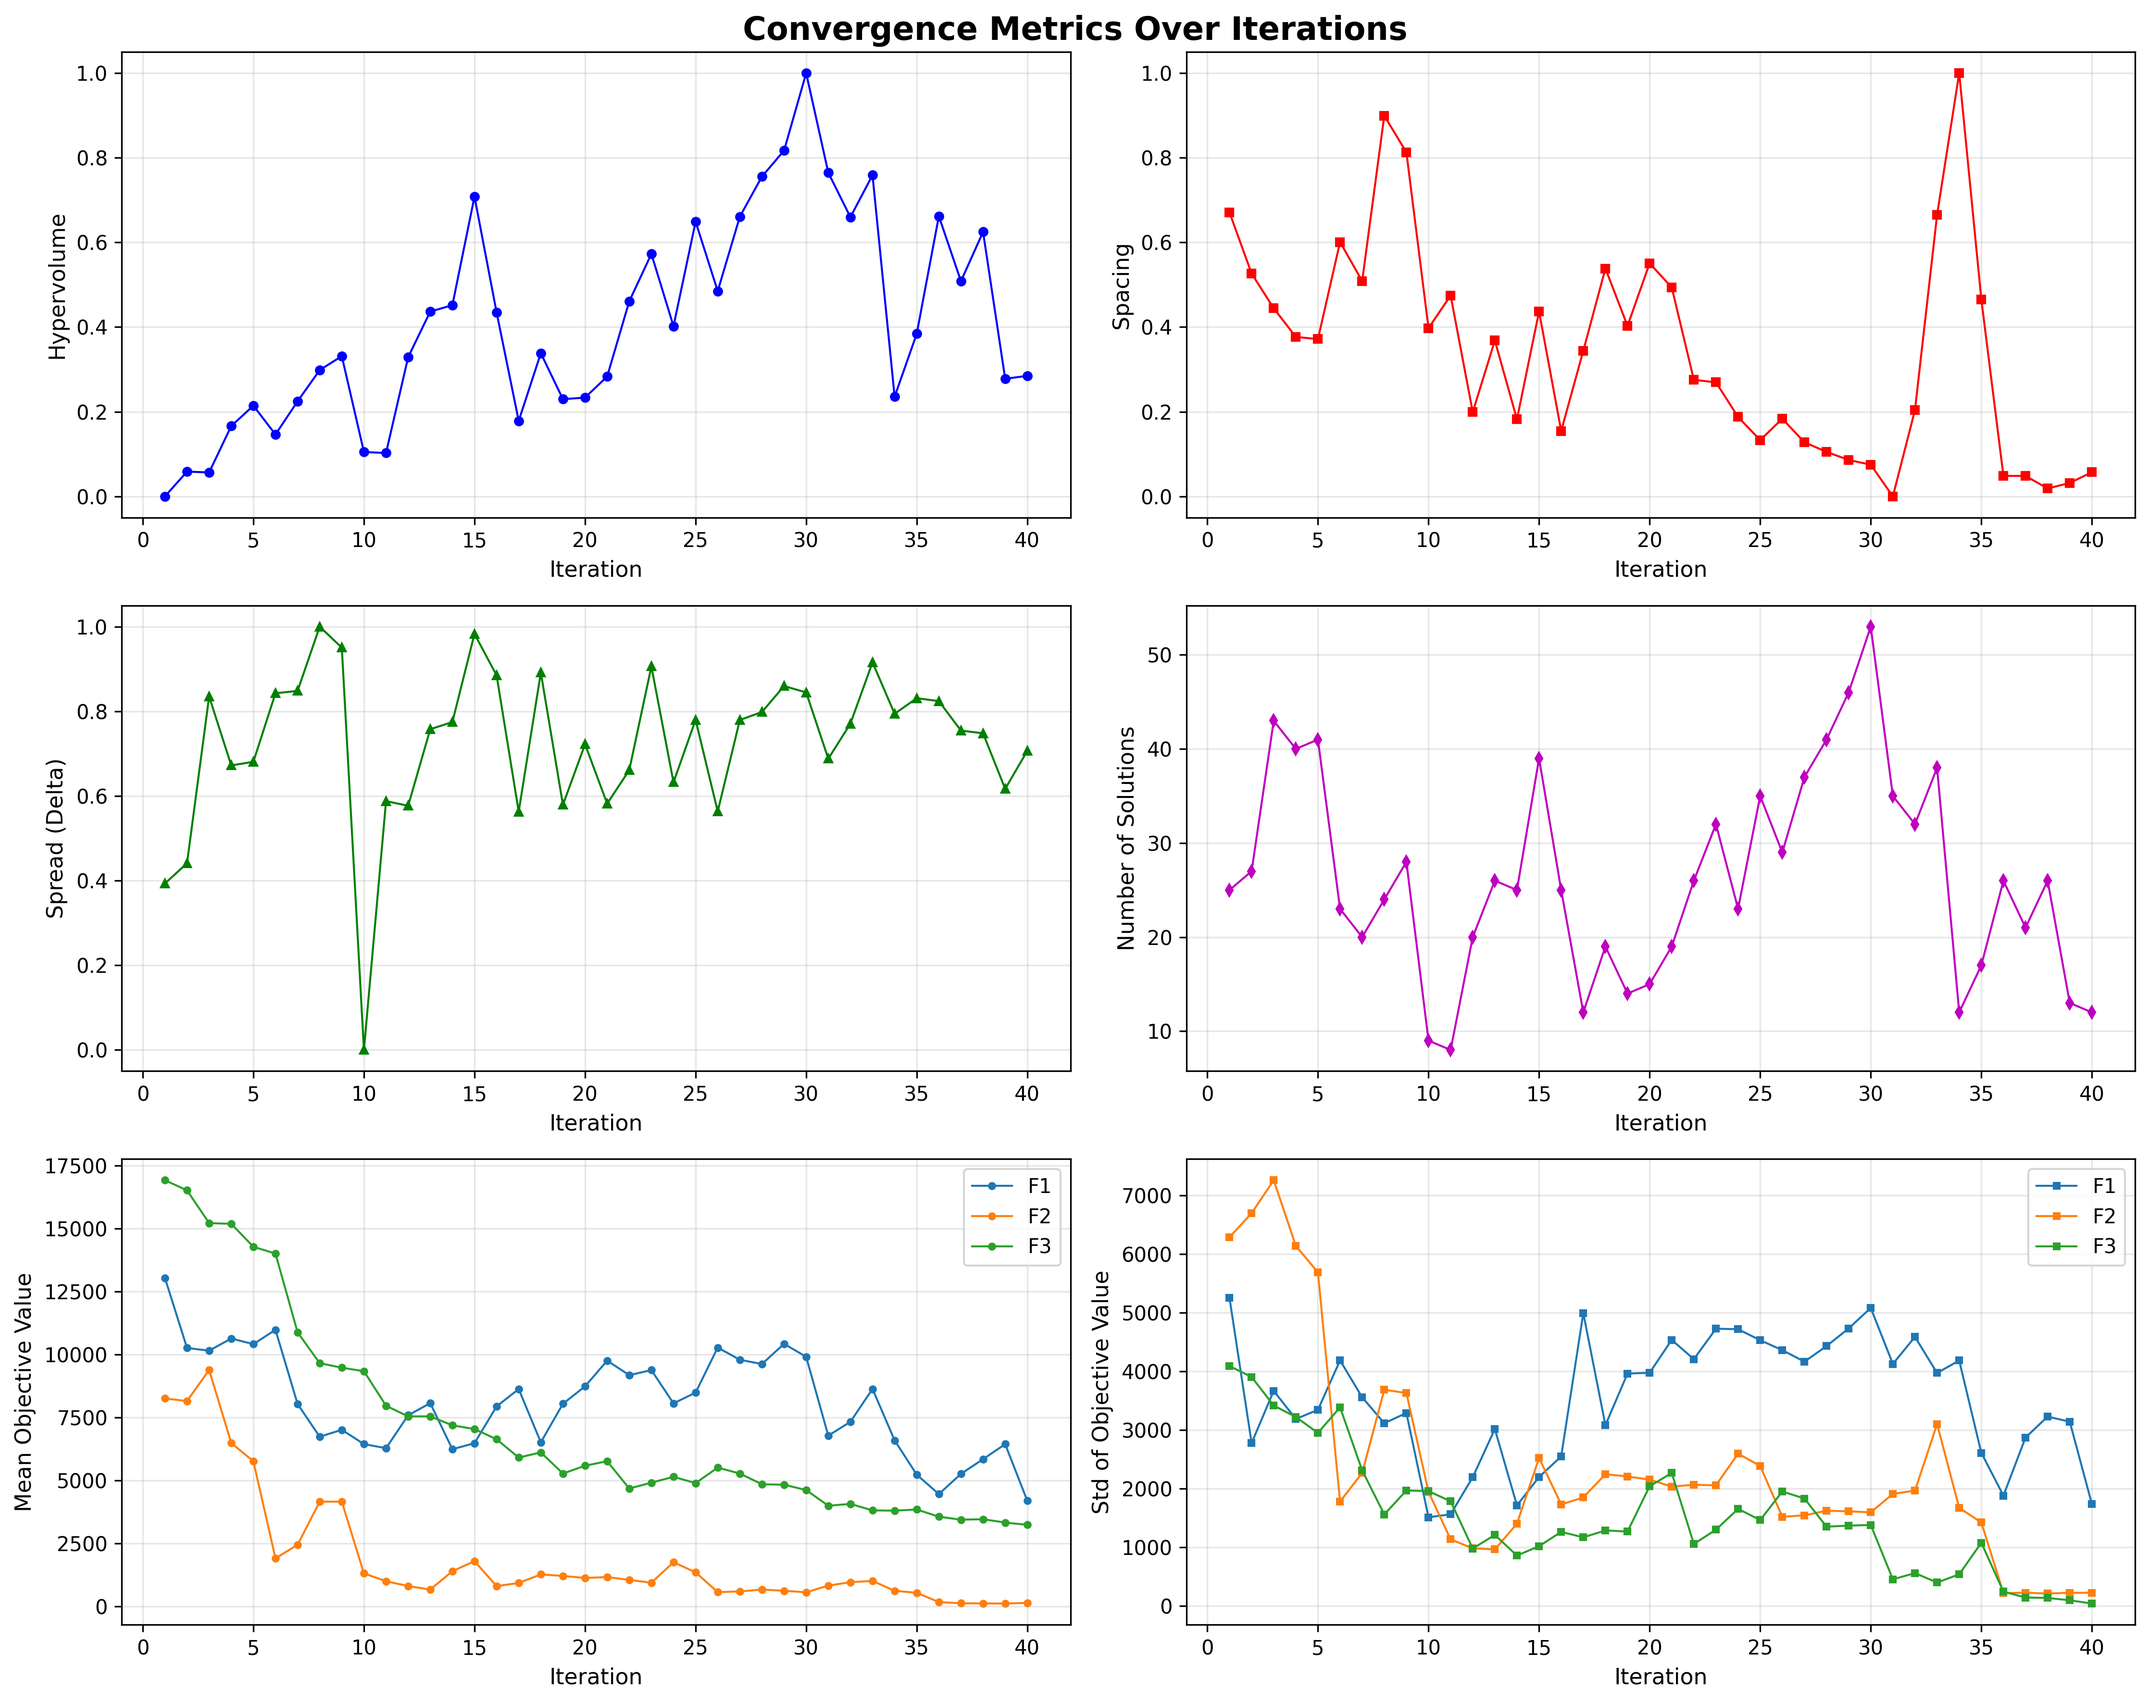
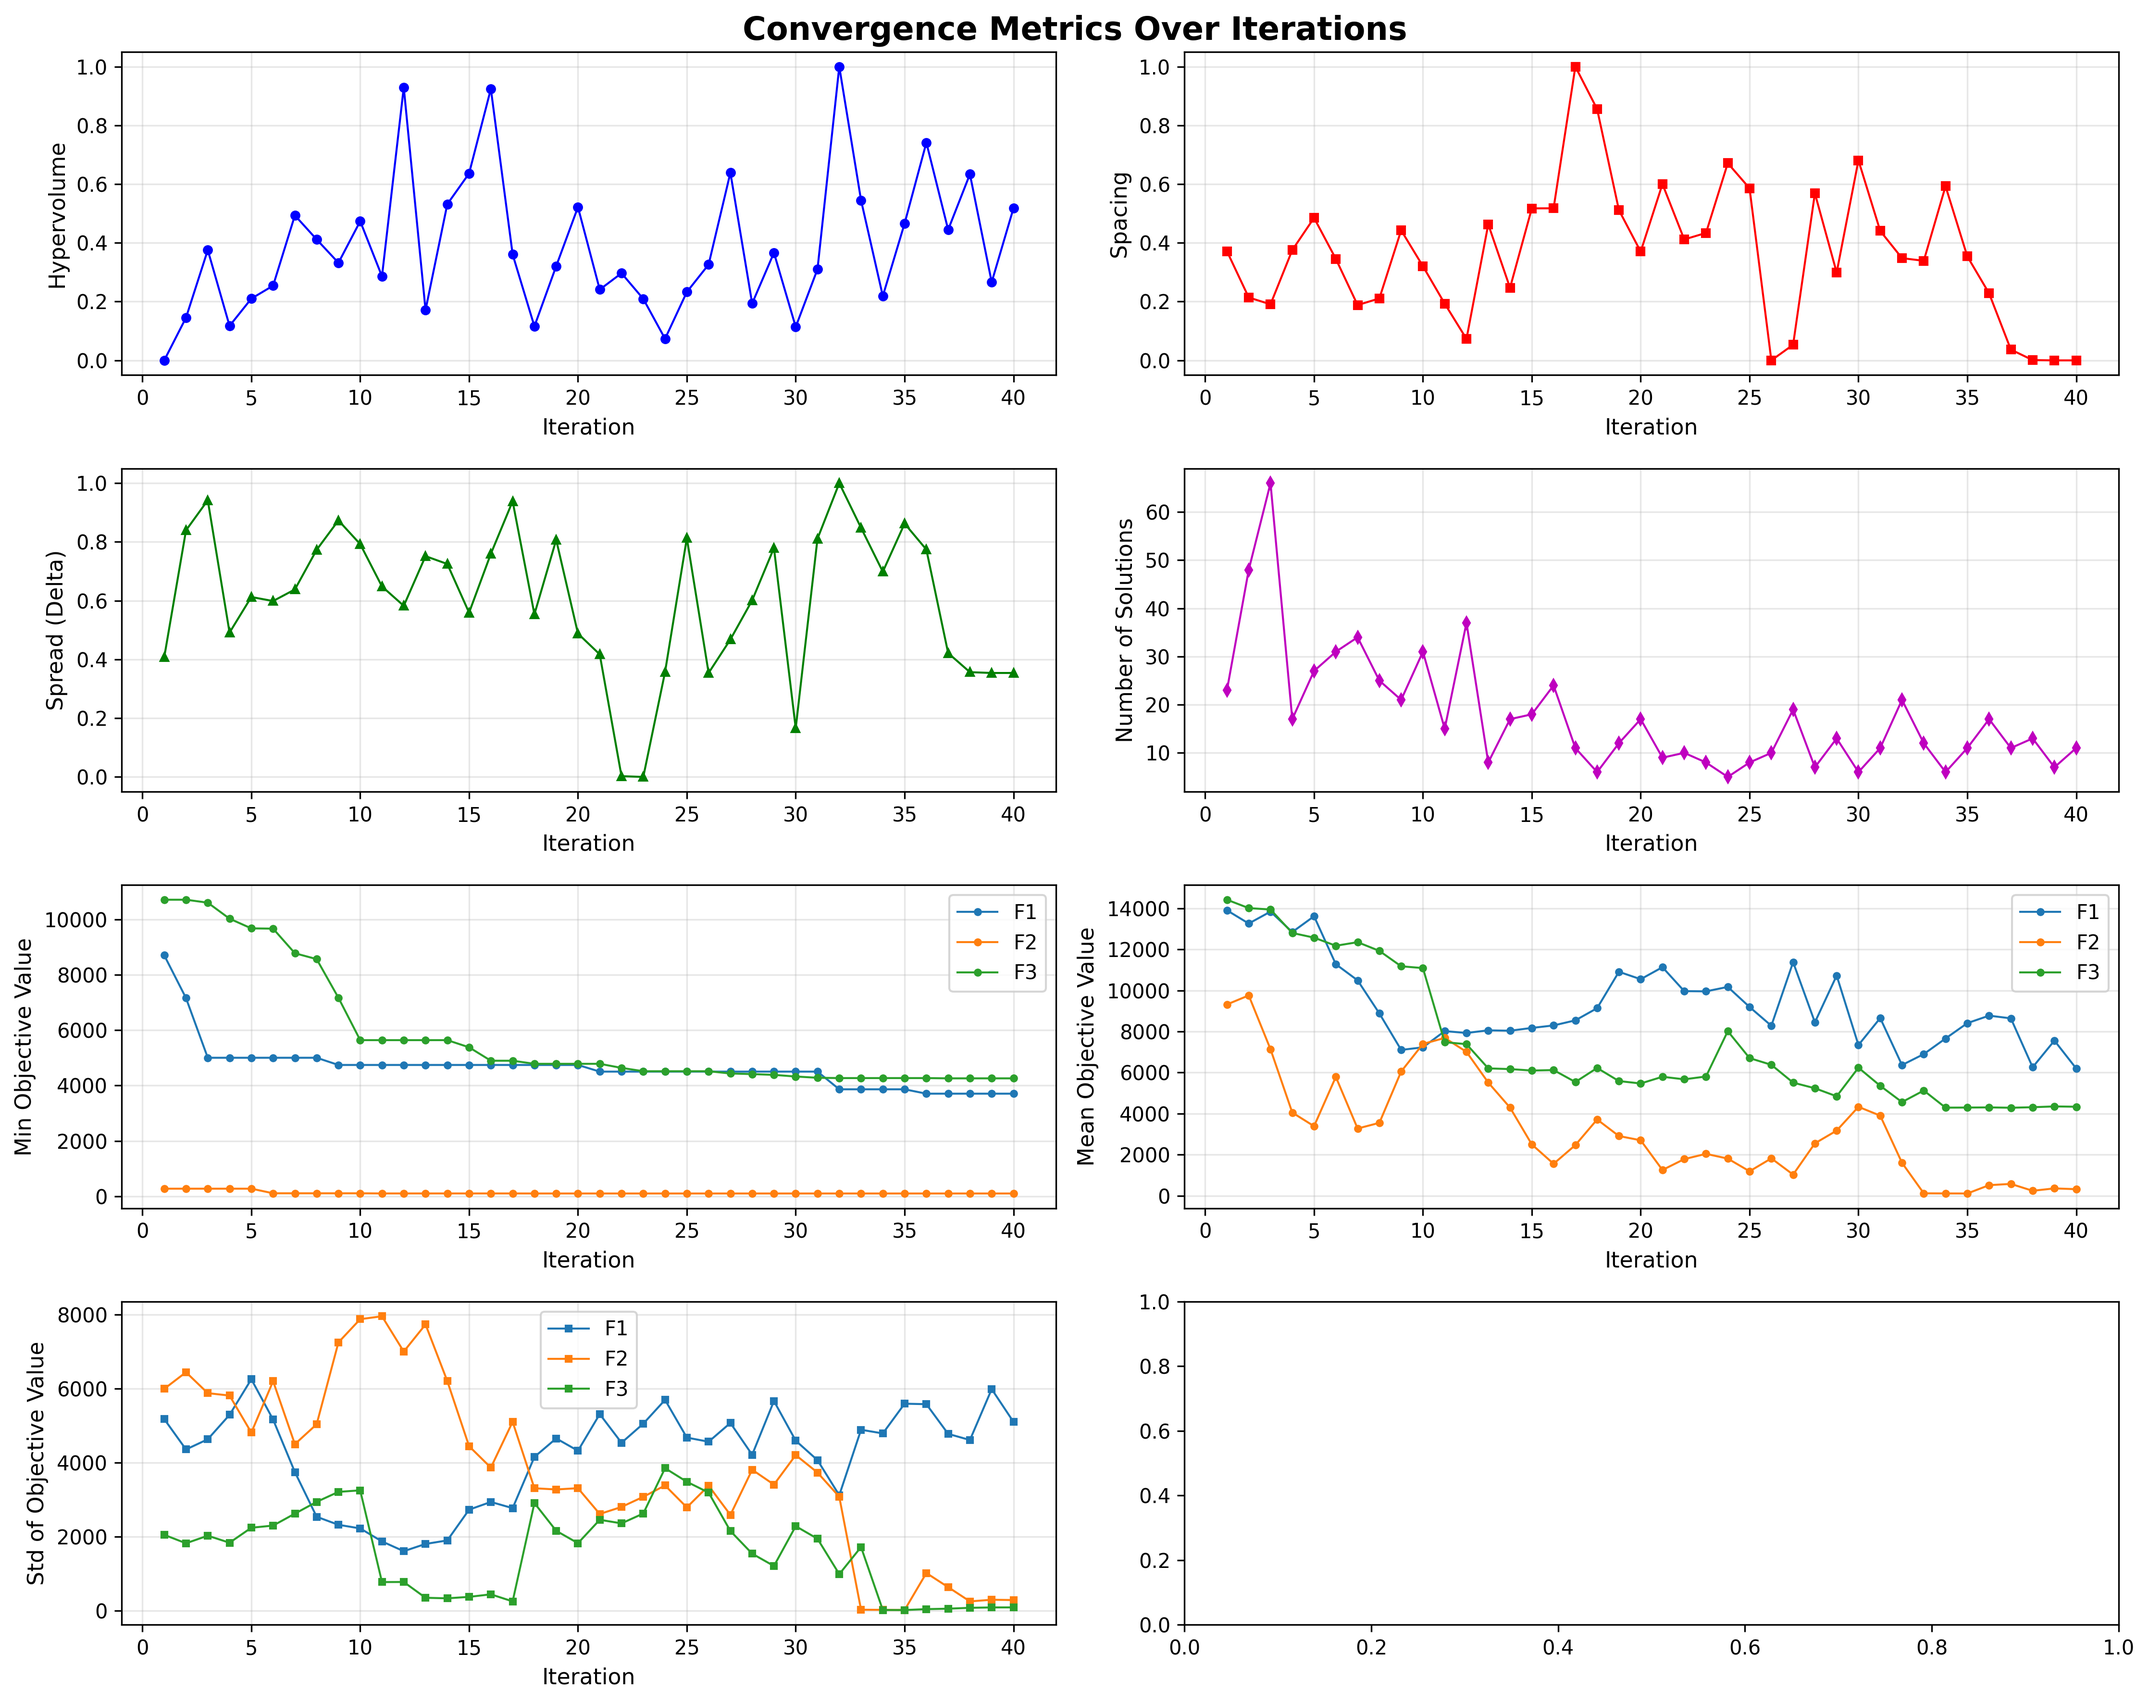
NSGA-II: adding min objectives plot

diff --git a/Python_Codes/NNSGA-II-HSC/convergence_metrics.py b/Python_Codes/NNSGA-II-HSC/convergence_metrics.py
@@ -19,6 +19,7 @@ class ConvergenceMetrics:
         self.igd_history = []  # Inverted Generational Distance
         self.n_pareto_history = []
         self.mean_objectives_history = []
+        self.min_objectives_history = []
         self.std_objectives_history = []
         
     # def hypervolume(self, pareto_front, reference_point=None):
@@ -251,8 +252,10 @@ class ConvergenceMetrics:
             
             # میانگین و انحراف معیار اهداف
             mean_obj = np.mean(pareto_front, axis=0)
+            min_obj = np.min(pareto_front, axis=0)
             std_obj = np.std(pareto_front, axis=0)
             self.mean_objectives_history.append(mean_obj)
+            self.min_objectives_history.append(min_obj)
             self.std_objectives_history.append(std_obj)
             
             # اگر true Pareto front در دسترس باشد
@@ -279,7 +282,7 @@ class ConvergenceMetrics:
         رسم نمودارهای همگرایی
         """
         n_metrics = 6  # تعداد شاخصهای اصلی
-        fig, axes = plt.subplots(3, 2, figsize=(15, 12))
+        fig, axes = plt.subplots(4, 2, figsize=(15, 12))
         fig.suptitle('Convergence Metrics Over Iterations', fontsize=16, fontweight='bold')
         
         iterations = range(1, len(self.normalized_spacing) + 1)
@@ -316,8 +319,20 @@ class ConvergenceMetrics:
         # ax.set_title('Pareto Front Size\n(تعداد جوابهای پارتو)', fontsize=12, fontweight='bold')
         ax.grid(True, alpha=0.3)
         
-        # 5. Mean Objectives
+        # 5. Min Objectives
         ax = axes[2, 0]
+        min_objectives = np.array(self.min_objectives_history)
+        for i in range(min_objectives.shape[1]):
+            ax.plot(iterations, min_objectives[:, i], linewidth=1, 
+                   marker='o', markersize=3, label=f'F{i+1}')
+        ax.set_xlabel('Iteration', fontsize=11)
+        ax.set_ylabel('Min Objective Value', fontsize=11)
+        # ax.set_title('Mean of Objectives\n(میانگین توابع هدف)', fontsize=12, fontweight='bold')
+        ax.legend()
+        ax.grid(True, alpha=0.3)
+        
+        # 6. Mean Objectives
+        ax = axes[2, 1]
         mean_objectives = np.array(self.mean_objectives_history)
         for i in range(mean_objectives.shape[1]):
             ax.plot(iterations, mean_objectives[:, i], linewidth=1, 
@@ -328,8 +343,8 @@ class ConvergenceMetrics:
         ax.legend()
         ax.grid(True, alpha=0.3)
         
-        # 6. Std Objectives
-        ax = axes[2, 1]
+        # 7. Std Objectives
+        ax = axes[3, 0]
         std_objectives = np.array(self.std_objectives_history)
         for i in range(std_objectives.shape[1]):
             ax.plot(iterations, std_objectives[:, i], linewidth=1, 

diff --git a/Python_Codes/NNSGA-II-HSC/hyper_volume.py b/Python_Codes/NNSGA-II-HSC/hyper_volume.py
@@ -89,9 +89,7 @@ class Hypervolume3D:
         #     warnings.warn("برخی نقاط از reference point بدترند! Reference point تنظیم میشود.")
         #     reference_point = np.max(pareto_front, axis=0) * 1.1
         #     self.reference_point = reference_point
-        
         normalized = pareto_front / reference_point
-        print(normalized)
         return normalized
     
     def _filter_dominated(self, pareto_front: np.ndarray) -> np.ndarray:

diff --git a/Python_Codes/NNSGA-II-HSC/main.py b/Python_Codes/NNSGA-II-HSC/main.py
@@ -340,7 +340,7 @@ class Main():
             max_iter=40,
             pop_size=150,
             p_crossover=0.9,
-            p_mutation=0.01,
+            p_mutation=0.1,
             verbose=True,
             shelter_id = self.ec_id,
             distribution_center_id = self.idc_id,

diff --git a/Python_Codes/test.py b/Python_Codes/test.py
@@ -3,4 +3,4 @@ import random
 from scipy.spatial.distance import cdist
 
 a = [[1,2,3],[4,1,6]]
-print(np.max(a, axis=0))
+print(np.min(a, axis=0))
